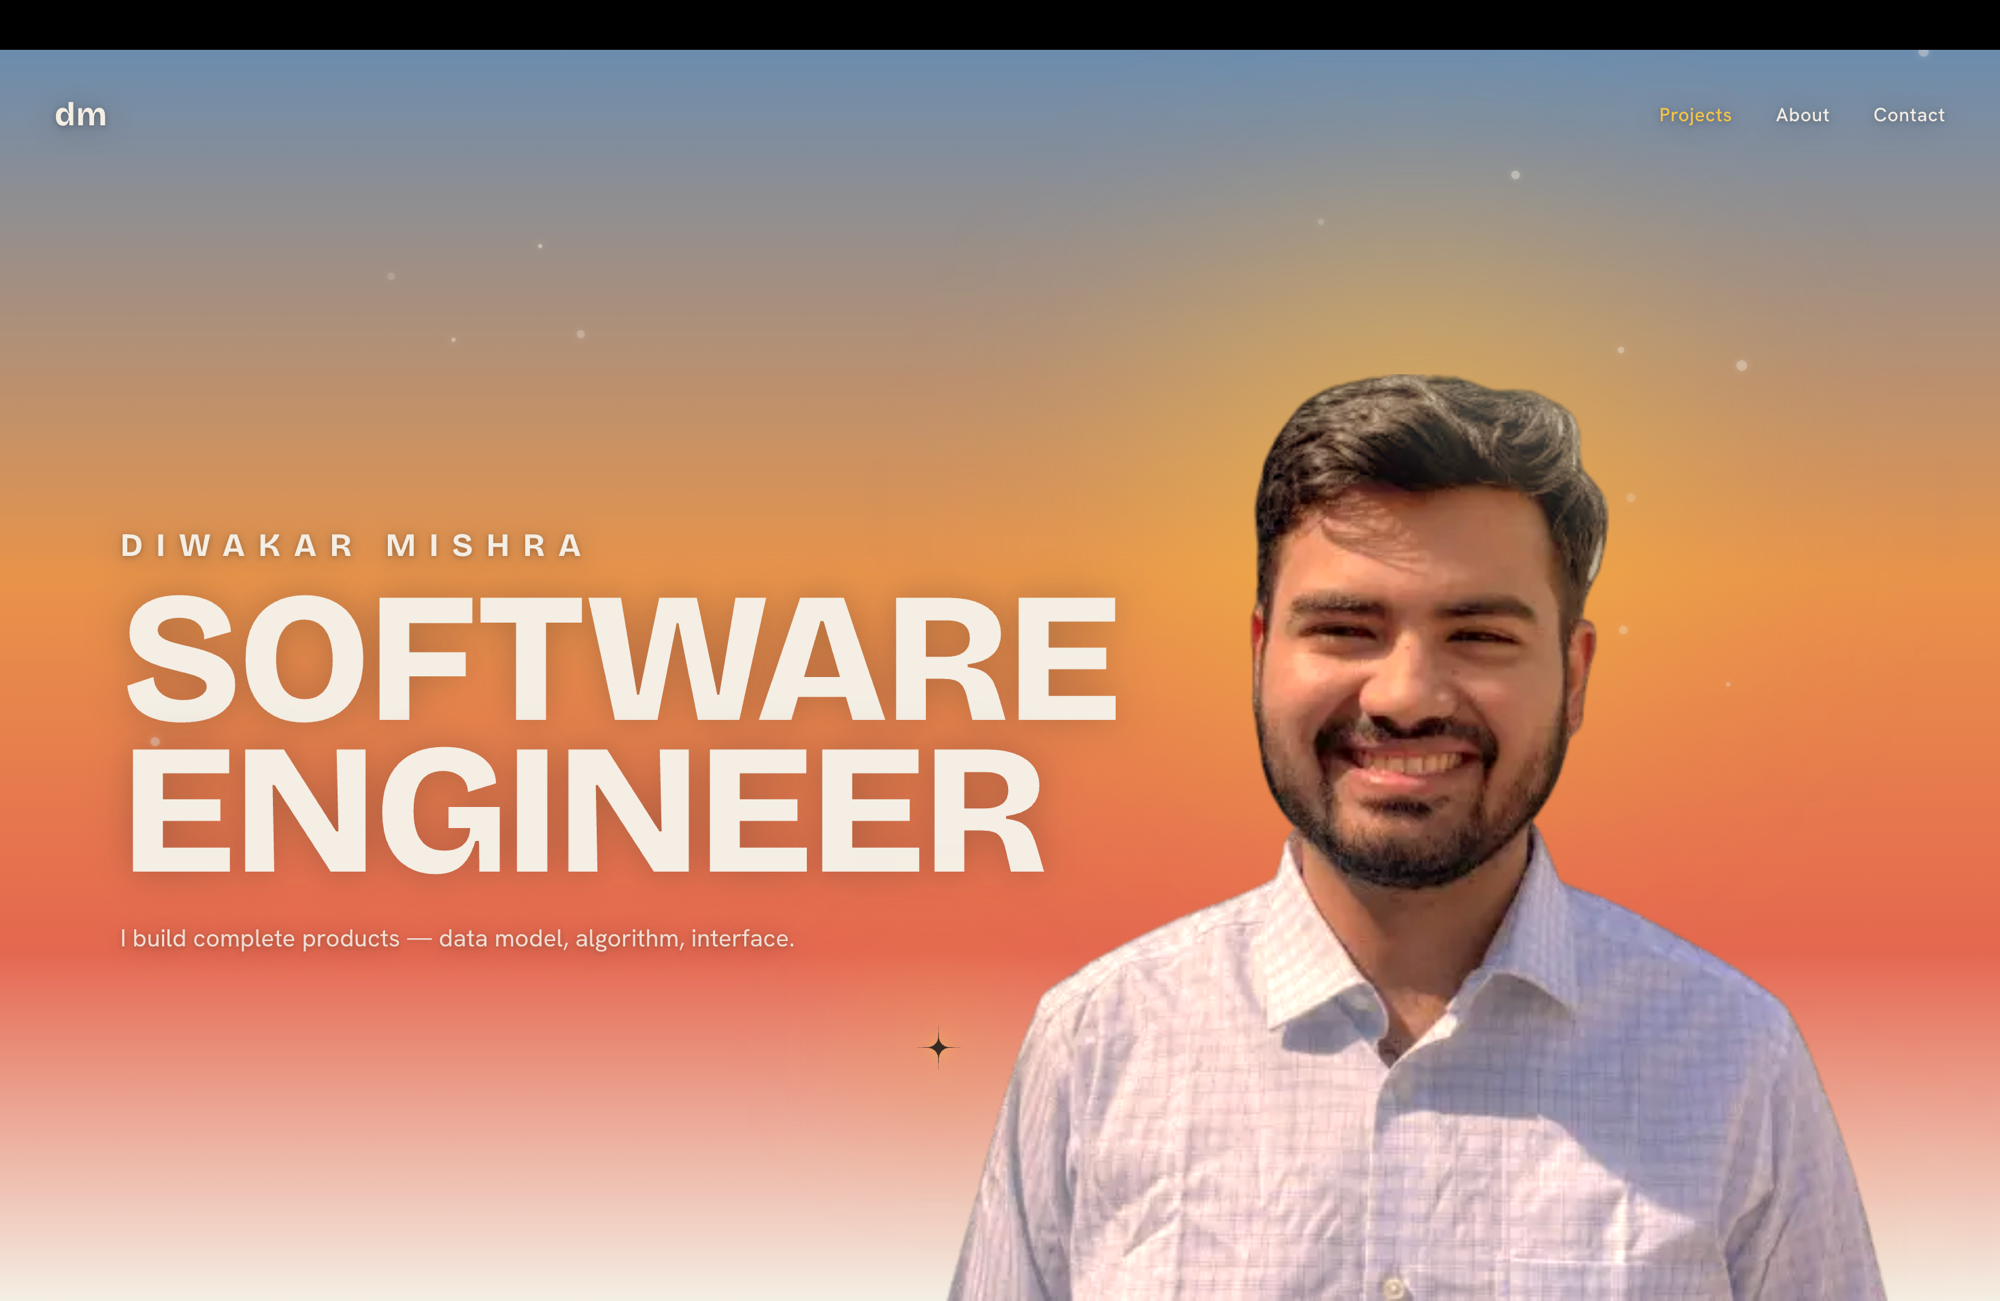
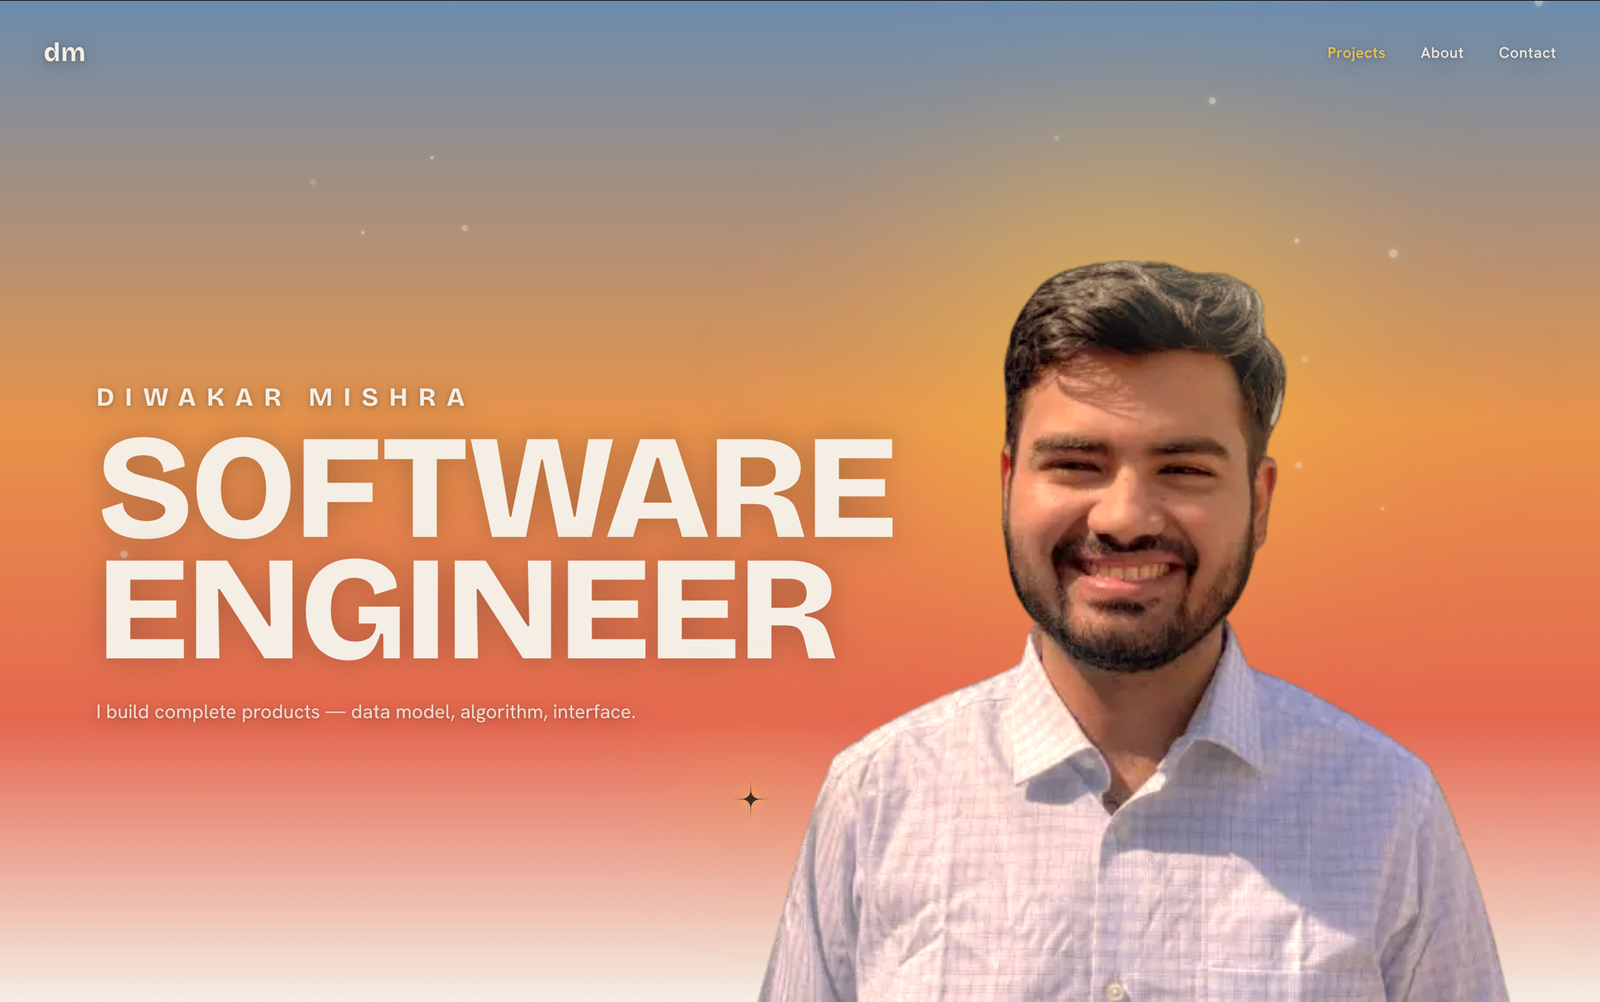
Crop README hero, match resume's 70% figure, fix toolkit chips
- README hero image: cropped the black recording-artifact bar off the top.
- Starweave card: 70% -> 11% (matching the resume) instead of 71%, which
  was this repo's own re-measurement on the current 297-artist graph but
  put the site and the resume in disagreement. Comments updated to record
  why and how to update both together if the resume changes.
- Toolkit chips: replaced the curated 12-skill subset with the actual
  15-item stack from the resume, in resume order.
- Cleaned up a comment run-on left over from an earlier edit (two blocks
  had been concatenated into one incoherent sentence).

diff --git a/src/components/Projects.tsx b/src/components/Projects.tsx
@@ -32,13 +32,13 @@ const PROJECTS: Project[] = [
     // every line has to stand alone: numbers are legible to a stranger, band
     // names are not.
     //
-    // 71% -> 11% IS MEASURED, NOT ESTIMATED, and the methodology has to stay
+    // 70% -> 11% IS MEASURED, NOT ESTIMATED, and the methodology has to stay
     // defensible because this is the number an interviewer will push on first:
     // 1,776 artist pairs compared, BFS (fewest hops) against Dijkstra weighted
     // by sourcing tier. "Weak" means a hop that is uncited or critic-tier —
-    // including critic-tier is what puts the baseline at 71% rather than
-    // something lower, so the definition is stated rather than implied.
-    // Re-runnable against the live graph in ~0.4ms.
+    // including critic-tier is what puts the baseline this high, so the
+    // definition is stated rather than implied. Re-runnable against the live
+    // graph in ~0.4ms.
     //
     // The cost clause ("for about one extra artist in between", measured
     // +1.13 on a 3.02-step average) is load-bearing, not padding: without it
@@ -63,12 +63,12 @@ const PROJECTS: Project[] = [
     // manages the same claim jargon-free ("poorly-sourced links on the average
     // path... keeping paths nearly as short") — match that register.
     //
-    // NOTE: the résumé bullet says 70% -> 11%, measured on the earlier
-    // 293-artist graph. The site describes the current 297-artist graph, whose
-    // benchmark is 71%. Keep this figure matched to whatever graph size the
-    // card states.
+    // Matches the résumé's 70% -> 11%. A re-run against the current
+    // 297-artist graph (up from 293) measures 71%; kept at 70% to stay
+    // consistent with the résumé rather than have the two contradict each
+    // other. If the résumé is ever updated to 71%, update this to match.
     description:
-      "Influence isn't the same as sounding similar — a band can shape another that sounds nothing like it, so no audio algorithm can find these links. They have to be sourced: 908 of 1,053 cite a named source, 562 the artist's own words. Ask how two artists connect and a Dijkstra search, weighted by how well each link is sourced, traces the best-documented chain rather than the shortest — chains with a poorly-sourced link fell from 71% to 11%, for about one extra artist in between.",
+      "Influence isn't the same as sounding similar — a band can shape another that sounds nothing like it, so no audio algorithm can find these links. They have to be sourced: 908 of 1,053 cite a named source, 562 the artist's own words. Ask how two artists connect and a Dijkstra search, weighted by how well each link is sourced, traces the best-documented chain rather than the shortest — chains with a poorly-sourced link fell from 70% to 11%, for about one extra artist in between.",
     stack: ["Next.js", "TypeScript", "d3-force", "Canvas API"],
     liveUrl: "https://starweaves.vercel.app/",
     repoUrl: "https://github.com/DiwakarMishra-CODER/starweave",

diff --git a/src/components/About.tsx b/src/components/About.tsx
@@ -76,10 +76,12 @@ interface Principle {
 // them. This costs one line at 1024px versus an unnamed version, which is
 // worth it: naming Starweave keeps the tile legible out of order (like the
 // other two, which name their own project) and the full technique names are
-// the credential. Keep the British "colouring" to match the résumé. That kills a duplication and
-// fills a real gap in one move. Deliberately a SWAP, not a fourth tile: the
-// row is 3 x col-span-4 = 12 exactly, so a fourth would force col-span-3 and
-// re-wrap every tile — a layout change to solve a copy problem.
+// the credential. Keep the British "colouring" to match the résumé.
+//
+// That kills a duplication and fills a real gap in one move. Deliberately a
+// SWAP, not a fourth tile: the row is 3 x col-span-4 = 12 exactly, so a
+// fourth would force col-span-3 and re-wrap every tile — a layout change to
+// solve a copy problem.
 const PRINCIPLES: Principle[] = [
   {
     title: "Layout is an algorithm",
@@ -120,16 +122,19 @@ const TOOLKIT_LABEL_COLOR = "#A85E38";
 const TOOLKIT_CHIP_CLASS =
   "inline-flex items-center rounded-full border border-[rgba(168,94,56,0.20)] bg-[rgba(255,255,255,0.72)] px-3.5 py-1.5 font-body text-xs text-[#5A4436] sm:text-sm";
 const SKILLS = [
+  "C++",
+  "TypeScript",
+  "JavaScript",
+  "SQL",
   "React",
   "Next.js",
-  "TypeScript",
   "Node.js",
   "Express",
-  "Supabase",
   "MongoDB",
+  "PostgreSQL/Supabase",
   "Tailwind CSS",
-  "C++",
-  "SQL",
+  "Canvas API",
+  "D3/d3-force",
   "LLM Integration",
   "Git · CI",
 ];
